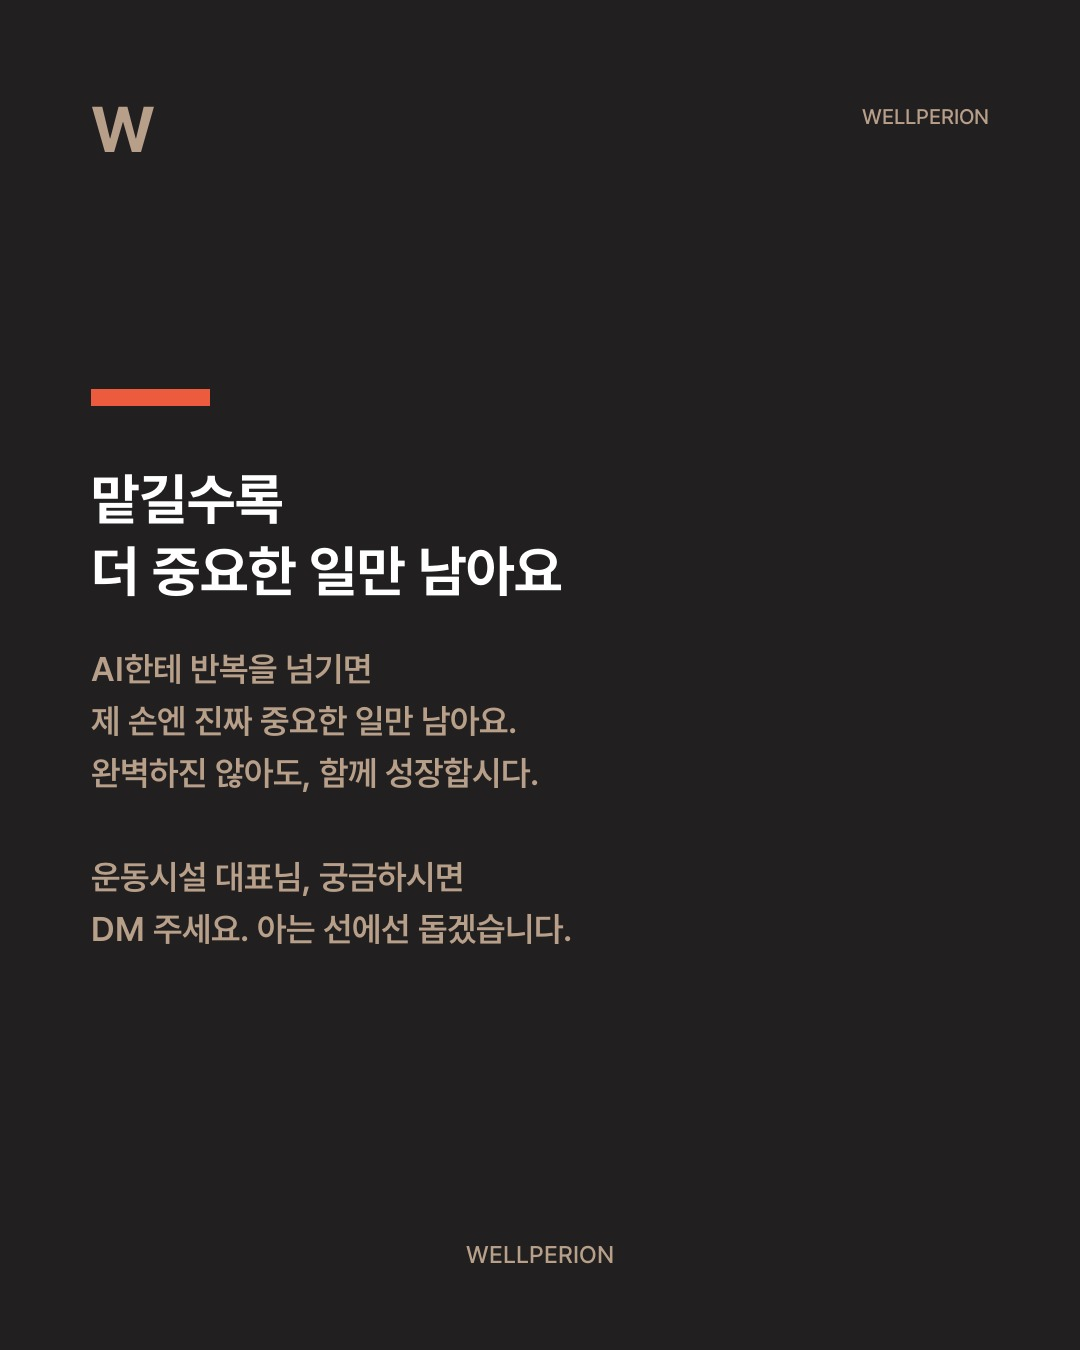
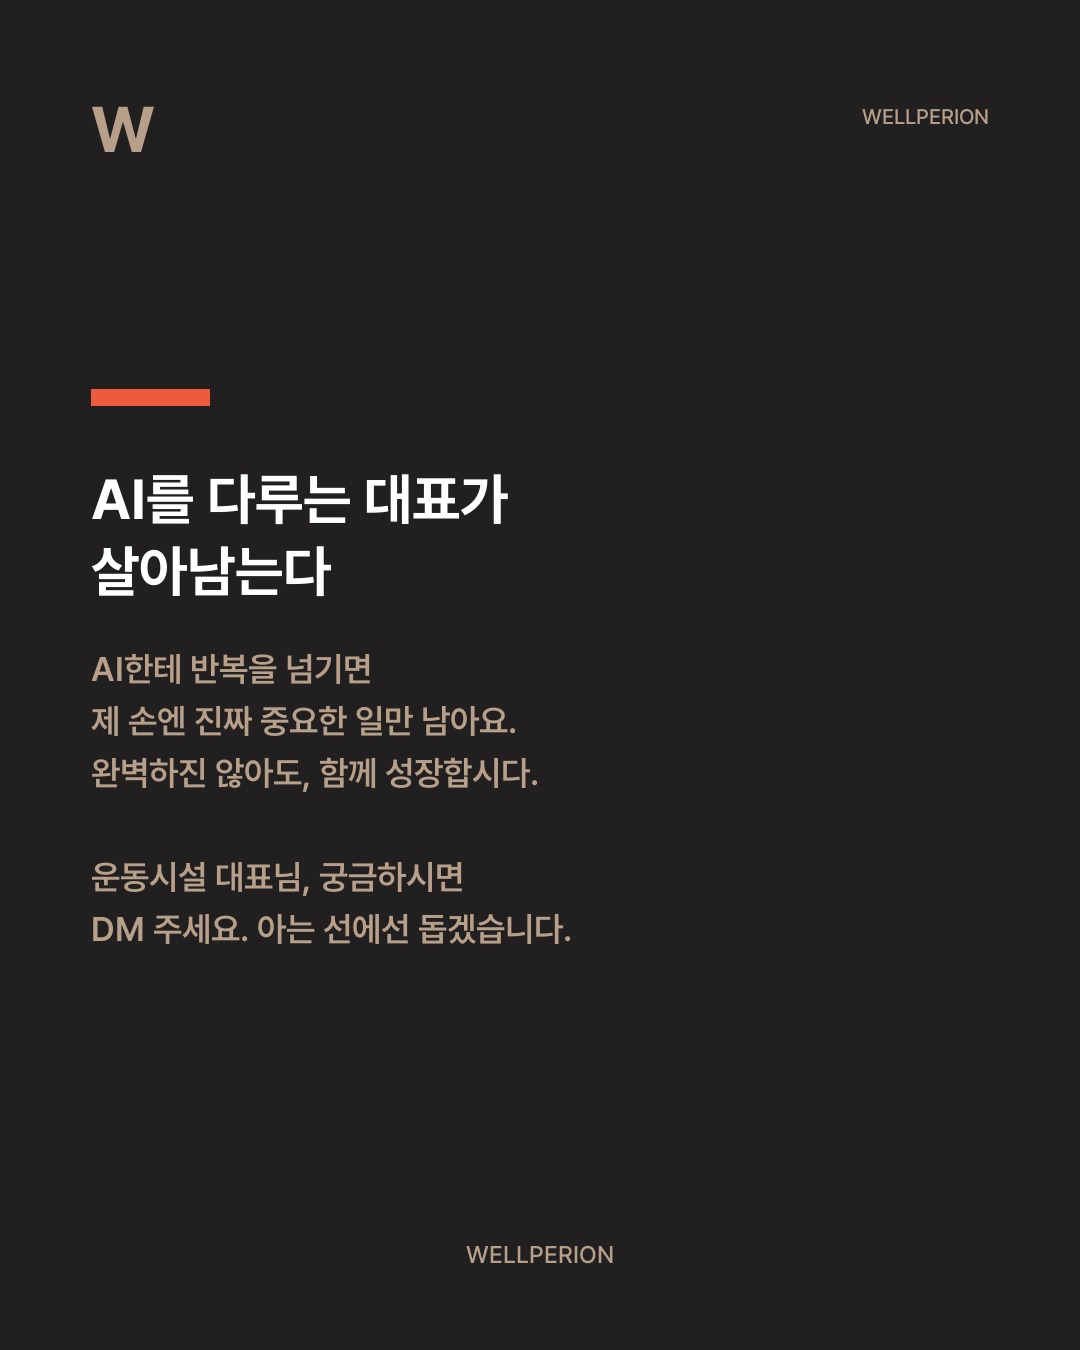
fix(cmo): AI #4 마지막장 슬로건 교체 — 'AI를 다루는 대표가 살아남는다' (GM 지시, 검수대기 유지)

Changed region(s): [[0.0611, 0.3422, 0.5194, 0.4667]]

diff --git a/instagram/260603_AI4_역할분담/build_slides.py b/instagram/260603_AI4_역할분담/build_slides.py
@@ -91,7 +91,7 @@ def main() -> None:
         output=last_out,
         brand_key="main",
         logo_style=LOGO_STYLE,
-        kor_title="맡길수록\n더 중요한 일만 남아요",
+        kor_title="AI를 다루는 대표가\n살아남는다",
         body="AI한테 반복을 넘기면\n제 손엔 진짜 중요한 일만 남아요.\n완벽하진 않아도, 함께 성장합시다.\n\n운동시설 대표님, 궁금하시면\nDM 주세요. 아는 선에선 돕겠습니다.",
     )
     print(f"[OK] {last_out.name} - slogan/DM card ({r['size_kb']}KB)")

diff --git a/instagram/260603_AI4_역할분담/기획_초안.md b/instagram/260603_AI4_역할분담/기획_초안.md
@@ -41,7 +41,7 @@ CTA | 개인계정 확정 — litt.ly 미사용. 'DM 문의' + '함께 성장합
 본문 | · 회원 얼굴·표정 살피기\n· 가격과 방향 정하기\n· 사람과의 관계 쌓기\n· 마지막으로 한 번 확인하기\n결국 '결정'은 사람 몫이니까요.
 
 ### 6장 (마무리 — 슬로건 + 함께 성장 + DM)
-한글 | 맡길수록\n더 중요한 일만 남아요
+한글 | AI를 다루는 대표가\n살아남는다
 본문 | AI한테 반복을 넘기면\n제 손엔 진짜 중요한 일만 남아요.\n완벽하진 않아도, 함께 성장합시다.\n\n운동시설 대표님, 궁금하시면\nDM 주세요. 아는 선에선 돕겠습니다.
 
 ## 3. 캡션 초안 (GM이 자기 목소리로 다듬을 여지)
